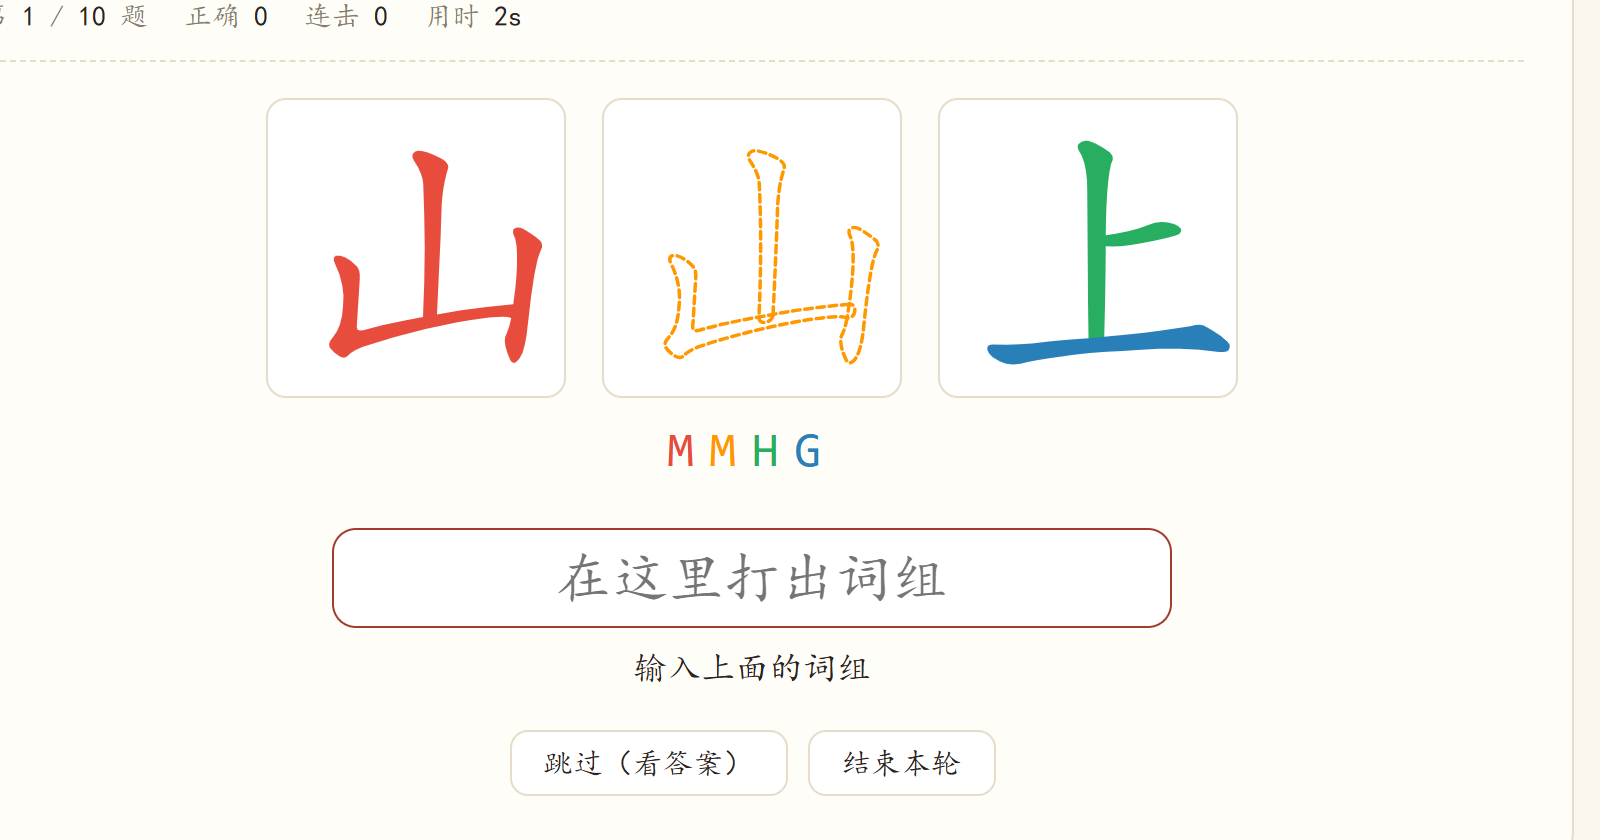
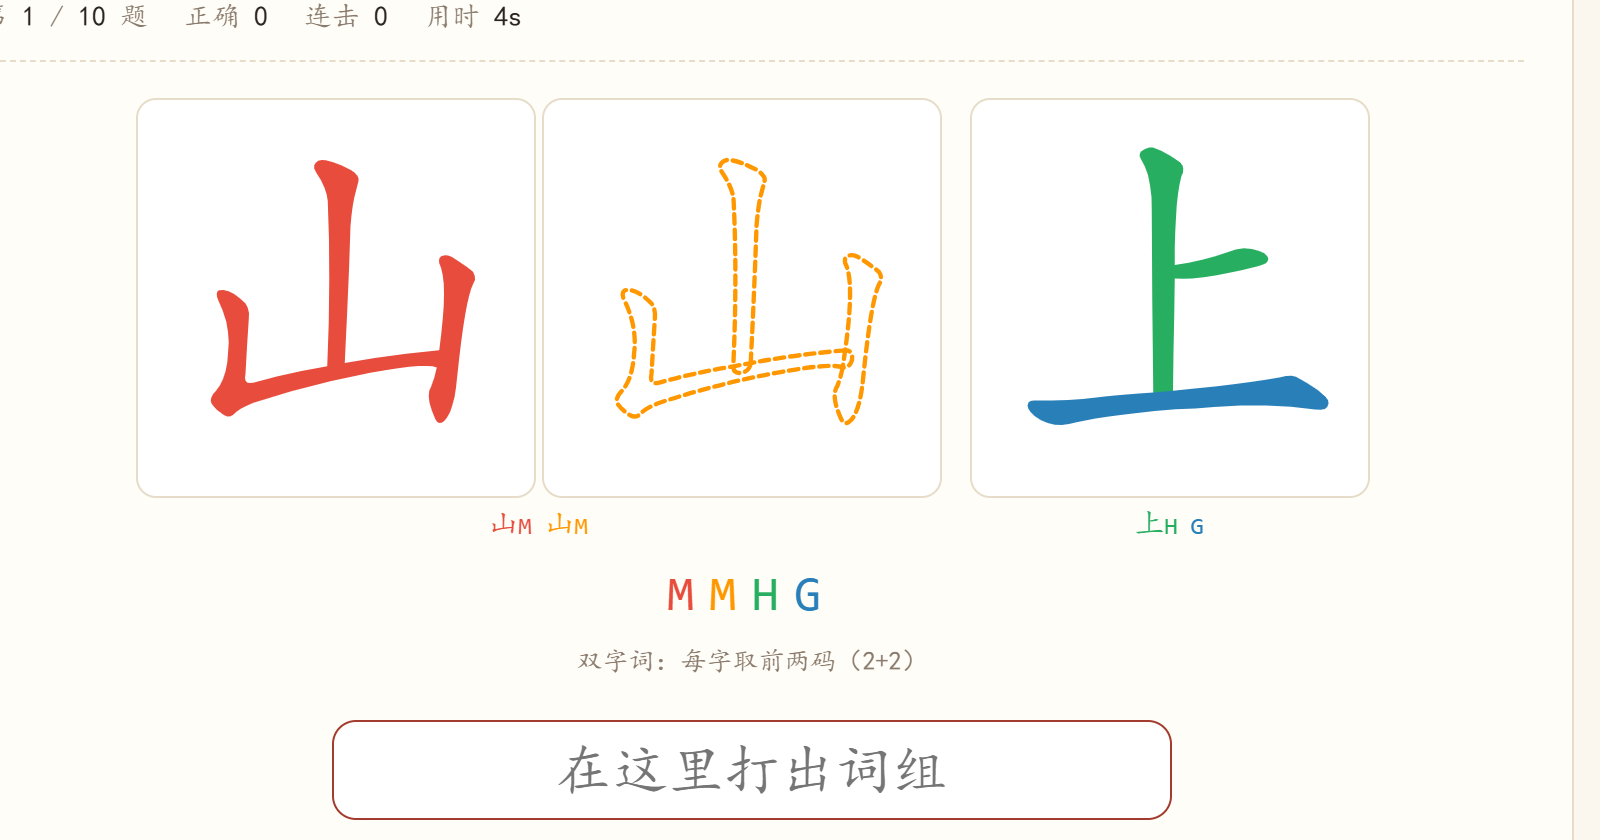
fix: 米字主体笔画缺失着色（灰色→红色），练习页着色兼容两种蓝色

diff --git a/tools/test-practice-mifan.js b/tools/test-practice-mifan.js
@@ -1,0 +1,43 @@
+// 用「米饭」验证练习页着色
+const http = require('node:http');
+const fs = require('node:fs');
+const path = require('node:path');
+const { chromium } = require('C:/Users/10061/AppData/Roaming/npm/node_modules/@playwright/cli/node_modules/playwright-core');
+
+const ROOT = path.resolve('D:/Users/10061/Downloads/wubi');
+const MIME = { '.html': 'text/html; charset=utf-8', '.js': 'text/javascript; charset=utf-8', '.svg': 'image/svg+xml' };
+const server = http.createServer((req, res) => {
+  const p = decodeURIComponent(req.url.split('?')[0]);
+  let f = path.resolve(path.join(ROOT, p));
+  if (fs.existsSync(f) && fs.statSync(f).isDirectory()) f = path.join(f, 'index.html');
+  if (!f.startsWith(ROOT) || !fs.existsSync(f)) { res.writeHead(404); res.end(); return; }
+  res.writeHead(200, { 'Content-Type': MIME[path.extname(f).toLowerCase()] || 'application/octet-stream' });
+  fs.createReadStream(f).pipe(res);
+});
+
+server.listen(0, '127.0.0.1', async () => {
+  const port = server.address().port;
+  const browser = await chromium.launch({
+    executablePath: process.env.LOCALAPPDATA + '\\ms-playwright\\chromium-1228\\chrome-win64\\chrome.exe',
+    headless: true,
+  });
+  const page = await browser.newPage({ viewport: { width: 1100, height: 800 }, deviceScaleFactor: 2 });
+  await page.goto(`http://127.0.0.1:${port}/practice.html`, { waitUntil: 'load' });
+  await page.waitForTimeout(1200);
+
+  await page.evaluate(() => {
+    var st = window.__pstate;
+    st.pool = [{ w: '米饭', c6: 'oyqn', c86: 'oyqn', c98: 'oyqn', r6: '米 丶 饣 丿', keys: '00', len: 2 }];
+    st.idx = 0; st.locked = false;
+    window.__next();
+  });
+  await page.waitForTimeout(1200);
+
+  const info = await page.evaluate(() => [...document.querySelectorAll('.zislot')].map((s) => ({
+    fills: [...new Set([...s.querySelectorAll('path')].map((p) => p.getAttribute('fill')).filter((f) => f && f !== '#fff'))].join(','),
+  })));
+  console.log('米饭各字填色:', JSON.stringify(info));
+  await page.screenshot({ path: 'D:/Users/10061/Downloads/wubi/tools/compare/practice-mifan.png', clip: { x: 250, y: 90, width: 850, height: 420 } });
+  await browser.close();
+  server.close();
+});

diff --git a/tools/shot-mi-pages.js b/tools/shot-mi-pages.js
@@ -1,0 +1,38 @@
+const http = require('node:http');
+const fs = require('node:fs');
+const path = require('node:path');
+const { chromium } = require('C:/Users/10061/AppData/Roaming/npm/node_modules/@playwright/cli/node_modules/playwright-core');
+
+const ROOT = path.resolve('D:/Users/10061/Downloads/wubi');
+const MIME = { '.html': 'text/html; charset=utf-8', '.js': 'text/javascript; charset=utf-8', '.svg': 'image/svg+xml' };
+const server = http.createServer((req, res) => {
+  const p = decodeURIComponent(req.url.split('?')[0]);
+  let f = path.resolve(path.join(ROOT, p));
+  if (fs.existsSync(f) && fs.statSync(f).isDirectory()) f = path.join(f, 'index.html');
+  if (!f.startsWith(ROOT) || !fs.existsSync(f)) { res.writeHead(404); res.end(); return; }
+  res.writeHead(200, { 'Content-Type': MIME[path.extname(f).toLowerCase()] || 'application/octet-stream' });
+  fs.createReadStream(f).pipe(res);
+});
+
+server.listen(0, '127.0.0.1', async () => {
+  const port = server.address().port;
+  const browser = await chromium.launch({
+    executablePath: process.env.LOCALAPPDATA + '\\ms-playwright\\chromium-1228\\chrome-win64\\chrome.exe',
+    headless: true,
+  });
+  for (const [u, name] of [
+    ['char/' + encodeURIComponent('米') + '.html', 'mi-char'],
+    ['ci/' + encodeURIComponent('米饭') + '.html', 'mi-word'],
+  ]) {
+    const page = await browser.newPage({ viewport: { width: 900, height: 700 }, deviceScaleFactor: 1 });
+    const err = [];
+    page.on('pageerror', (e) => err.push(e.message.slice(0, 80)));
+    const resp = await page.goto(`http://127.0.0.1:${port}/${u}`, { waitUntil: 'load' }).catch((e) => null);
+    await page.waitForTimeout(500);
+    console.log(name, '| 状态:', resp ? resp.status() : 'fail', err.join('|'));
+    await page.screenshot({ path: `D:/Users/10061/Downloads/wubi/tools/compare/${name}.png`, clip: { x: 0, y: 0, width: 900, height: 420 } });
+    await page.close();
+  }
+  await browser.close();
+  server.close();
+});

diff --git a/tools/practice-ordinal-recolor.js b/tools/practice-ordinal-recolor.js
@@ -1,0 +1,42 @@
+// 练习页着色：按「颜色出现顺序」重映射，避免字形文件配色顺序不一致
+const fs = require('node:fs');
+const p = 'D:/Users/10061/Downloads/wubi/practice.html';
+let t = fs.readFileSync(p, 'utf8');
+
+const oldFn = `  function recolorSvg(svg, start, k) {
+    return svg.replace(/fill="(#[0-9A-Fa-f]{3,6})"/g, function (m, f) {
+      var u = f.toUpperCase();
+      if (u === '#FFF' || u === '#FFFFFF') return m;
+      var i = PALETTE.map(function (x) { return x.toUpperCase(); }).indexOf(u);
+      if (i >= 0 && i < k) return 'fill="' + PALETTE[(start + i) % 4] + '"';
+      return 'fill="' + GRAY + '"';
+    });
+  }`;
+
+const newFn = `  function recolorSvg(svg, start, k) {
+    // 先按出现顺序收集所有彩色（白底、灰色不算），再依次映射到词组的位置色
+    var order = [];
+    svg.replace(/fill="(#[0-9A-Fa-f]{3,6})"/g, function (m, f) {
+      var u = f.toUpperCase();
+      if (u === '#FFF' || u === '#FFFFFF') return m;
+      if (u === '#555555' || u === '#555' || u === '#CFC8BD' || u === '#999999') return m;
+      if (order.indexOf(u) < 0) order.push(u);
+      return m;
+    });
+    return svg.replace(/fill="(#[0-9A-Fa-f]{3,6})"/g, function (m, f) {
+      var u = f.toUpperCase();
+      if (u === '#FFF' || u === '#FFFFFF') return m;
+      if (u === '#555555' || u === '#555' || u === '#CFC8BD' || u === '#999999') return 'fill="' + GRAY + '"';
+      var idx = order.indexOf(u);
+      if (idx >= 0 && idx < k) return 'fill="' + PALETTE[(start + idx) % 4] + '"';
+      return 'fill="' + GRAY + '"';
+    });
+  }`;
+
+if (t.includes(oldFn)) {
+  t = t.replace(oldFn, newFn);
+  fs.writeFileSync(p, t, 'utf8');
+  console.log('recolor 已改为顺序映射');
+} else {
+  console.log('未找到旧函数');
+}

diff --git a/tools/practice-ordinal2.js b/tools/practice-ordinal2.js
@@ -1,0 +1,35 @@
+// 用顺序映射替换 recolorSvg（适配 CRLF）
+const fs = require('node:fs');
+const p = 'D:/Users/10061/Downloads/wubi/practice.html';
+let t = fs.readFileSync(p, 'utf8');
+
+const start = t.indexOf('function recolorSvg(svg, start, k) {');
+if (start < 0) { console.log('找不到函数'); process.exit(1); }
+const endMarker = 'function colorWholeSvg';
+const end = t.indexOf(endMarker, start);
+if (end < 0) { console.log('找不到结尾'); process.exit(1); }
+
+const replacement = `function recolorSvg(svg, start, k) {
+    var order = [];
+    svg.replace(/fill="(#[0-9A-Fa-f]{3,6})"/g, function (m, f) {
+      var u = f.toUpperCase();
+      if (u === '#FFF' || u === '#FFFFFF') return m;
+      if (u === '#555555' || u === '#555' || u === '#CFC8BD' || u === '#999999') return m;
+      if (order.indexOf(u) < 0) order.push(u);
+      return m;
+    });
+    return svg.replace(/fill="(#[0-9A-Fa-f]{3,6})"/g, function (m, f) {
+      var u = f.toUpperCase();
+      if (u === '#FFF' || u === '#FFFFFF') return m;
+      if (u === '#555555' || u === '#555' || u === '#CFC8BD' || u === '#999999') return 'fill="' + GRAY + '"';
+      var idx = order.indexOf(u);
+      if (idx >= 0 && idx < k) return 'fill="' + PALETTE[(start + idx) % 4] + '"';
+      return 'fill="' + GRAY + '"';
+    });
+  }
+
+  `;
+
+t = t.slice(0, start) + replacement + t.slice(end);
+fs.writeFileSync(p, t, 'utf8');
+console.log('已替换:', t.includes('var order = [];'));

diff --git a/tools/practice-palette-map.js b/tools/practice-palette-map.js
@@ -1,0 +1,26 @@
+// 着色改回「按调色板序号」映射，同时兼容两种蓝与灰色
+const fs = require('node:fs');
+const p = 'D:/Users/10061/Downloads/wubi/practice.html';
+let t = fs.readFileSync(p, 'utf8');
+
+const start = t.indexOf('function recolorSvg(svg, start, k) {');
+const end = t.indexOf('function colorWholeSvg', start);
+if (start < 0 || end < 0) { console.log('定位失败'); process.exit(1); }
+
+const replacement = `function recolorSvg(svg, start, k) {
+    var MAP = { '#E74C3C': 0, '#FF9800': 1, '#27AE60': 2, '#2980B9': 3, '#3498DB': 3 };
+    return svg.replace(/fill="(#[0-9A-Fa-f]{3,6})"/g, function (m, f) {
+      var u = f.toUpperCase();
+      if (u === '#FFF' || u === '#FFFFFF') return m;
+      if (u === '#555555' || u === '#555' || u === '#CFC8BD' || u === '#999999') return 'fill="' + GRAY + '"';
+      var i = MAP[u];
+      if (i !== undefined && i < k) return 'fill="' + PALETTE[(start + i) % 4] + '"';
+      return 'fill="' + GRAY + '"';
+    });
+  }
+
+  `;
+
+t = t.slice(0, start) + replacement + t.slice(end);
+fs.writeFileSync(p, t, 'utf8');
+console.log('已改为调色板映射:', t.includes("'#3498DB': 3"));

diff --git a/practice.html b/practice.html
@@ -362,14 +362,17 @@
   var GRAY = '#cfc8bd';
 
   function recolorSvg(svg, start, k) {
+    var MAP = { '#E74C3C': 0, '#FF9800': 1, '#27AE60': 2, '#2980B9': 3, '#3498DB': 3 };
     return svg.replace(/fill="(#[0-9A-Fa-f]{3,6})"/g, function (m, f) {
       var u = f.toUpperCase();
       if (u === '#FFF' || u === '#FFFFFF') return m;
-      var i = PALETTE.map(function (x) { return x.toUpperCase(); }).indexOf(u);
-      if (i >= 0 && i < k) return 'fill="' + PALETTE[(start + i) % 4] + '"';
+      if (u === '#555555' || u === '#555' || u === '#CFC8BD' || u === '#999999') return 'fill="' + GRAY + '"';
+      var i = MAP[u];
+      if (i !== undefined && i < k) return 'fill="' + PALETTE[(start + i) % 4] + '"';
       return 'fill="' + GRAY + '"';
     });
   }
+
   function colorWholeSvg(svg, color) {
     return svg.replace(/fill="(#[0-9A-Fa-f]{3,6})"/g, function (m, f) {
       var u = f.toUpperCase();

diff --git a/tools/audit-first-color.js b/tools/audit-first-color.js
@@ -1,0 +1,20 @@
+const fs = require('node:fs');
+const path = require('node:path');
+const dir = 'D:/Users/10061/Downloads/wubi/svg';
+const files = fs.readdirSync(dir).filter((f) => f.endsWith('-86.svg'));
+let total = 0;
+let noRed = 0;
+const samples = [];
+for (const f of files) {
+  const t = fs.readFileSync(path.join(dir, f), 'utf8');
+  const fills = [...t.matchAll(/fill="(#[0-9A-Fa-f]{3,6})"/g)].map((m) => m[1].toUpperCase());
+  const colored = fills.filter((x) => x !== '#FFF');
+  if (!colored.length) continue;
+  total += 1;
+  if (colored[0] !== '#E74C3C') {
+    noRed += 1;
+    if (samples.length < 10) samples.push(f.replace('-86.svg', '') + '(' + colored[0] + ')');
+  }
+}
+console.log('86 版字形:', total, '| 首色不是红色:', noRed);
+console.log('样例:', samples.join(' '));

diff --git a/tools/audit-svg-palette.js b/tools/audit-svg-palette.js
@@ -1,0 +1,18 @@
+const fs = require('node:fs');
+const path = require('node:path');
+const dir = 'D:/Users/10061/Downloads/wubi/svg';
+const files = fs.readdirSync(dir);
+let total = 0;
+let odd = 0;
+const samples = [];
+for (const f of files) {
+  if (!f.endsWith('.svg')) continue;
+  total += 1;
+  const t = fs.readFileSync(path.join(dir, f), 'utf8');
+  // 正常单字页配色：红橙绿蓝；异常：出现 #3498DB / #555 / #cfc8bd
+  if (t.includes('#3498DB') || t.includes('#555') || t.includes('#cfc8bd')) {
+    odd += 1;
+    if (samples.length < 8) samples.push(f);
+  }
+}
+console.log('SVG 总数:', total, '| 配色异常:', odd, '| 样例:', samples.join(' '));

diff --git a/tools/fix-mi-glyph.js b/tools/fix-mi-glyph.js
@@ -1,0 +1,13 @@
+// 修正「米」的字形：主体笔画被错误标成灰色，改为红色
+const fs = require('node:fs');
+const dir = 'D:/Users/10061/Downloads/wubi/svg/';
+for (const ver of ['86', '98', '06']) {
+  const f = dir + '米-' + ver + '.svg';
+  if (!fs.existsSync(f)) { console.log(f, '缺失'); continue; }
+  let t = fs.readFileSync(f, 'utf8');
+  const before = (t.match(/#555/g) || []).length;
+  t = t.split('#555').join('#E74C3C');
+  fs.writeFileSync(f, t, 'utf8');
+  const fills = [...t.matchAll(/fill="(#[0-9A-Fa-f]{3,6})"/g)].map((m) => m[1]);
+  console.log('米-' + ver, '替换灰色:', before, '| 现在的配色:', fills.join(' '));
+}

diff --git a/tools/check-mi-data.js b/tools/check-mi-data.js
@@ -1,0 +1,10 @@
+const fs = require('node:fs');
+const tables = JSON.parse(fs.readFileSync('D:/Users/10061/Downloads/wubi/tools/tables.json', 'utf8'));
+for (const c of ['米', '饭', '山', '王', '人']) {
+  const e = tables.v06[c] || {};
+  console.log(c, '| code:', e.c, '| r:', JSON.stringify(e.r), '| r 长度:', (e.r || []).length);
+}
+const raw = fs.readFileSync('D:/Users/10061/Downloads/wubi/data/practice-2.js', 'utf8');
+const arr = JSON.parse(raw.slice(raw.indexOf('['), raw.lastIndexOf(']') + 1));
+const row = arr.find((r) => r[0] === '米饭');
+console.log('practice 数据里的米饭:', JSON.stringify(row));

diff --git a/tools/inspect-glyph-fills.js b/tools/inspect-glyph-fills.js
@@ -1,0 +1,9 @@
+const fs = require('node:fs');
+const dir = 'D:/Users/10061/Downloads/wubi/svg/';
+for (const f of ['狗-86.svg', '米-86.svg', '米-98.svg', '米-06.svg', '饭-86.svg', '山-86.svg']) {
+  try {
+    const t = fs.readFileSync(dir + f, 'utf8');
+    const fills = [...t.matchAll(/fill="(#[0-9A-Fa-f]{3,6})"/g)].map((m) => m[1]);
+    console.log(f, '→', fills.join(' '));
+  } catch (e) { console.log(f, '缺失'); }
+}

diff --git a/tools/inspect-mi-svg.js b/tools/inspect-mi-svg.js
@@ -1,0 +1,5 @@
+const fs = require('node:fs');
+const t = fs.readFileSync('D:/Users/10061/Downloads/wubi/svg/米-06.svg', 'utf8');
+console.log('长度:', t.length, '| path 数:', (t.match(/<path/g) || []).length);
+const fills = [...t.matchAll(/fill="(#[0-9A-Fa-f]{3,6})"/g)].map((m) => m[1]);
+console.log('fill 序列:', fills.join(' '));
